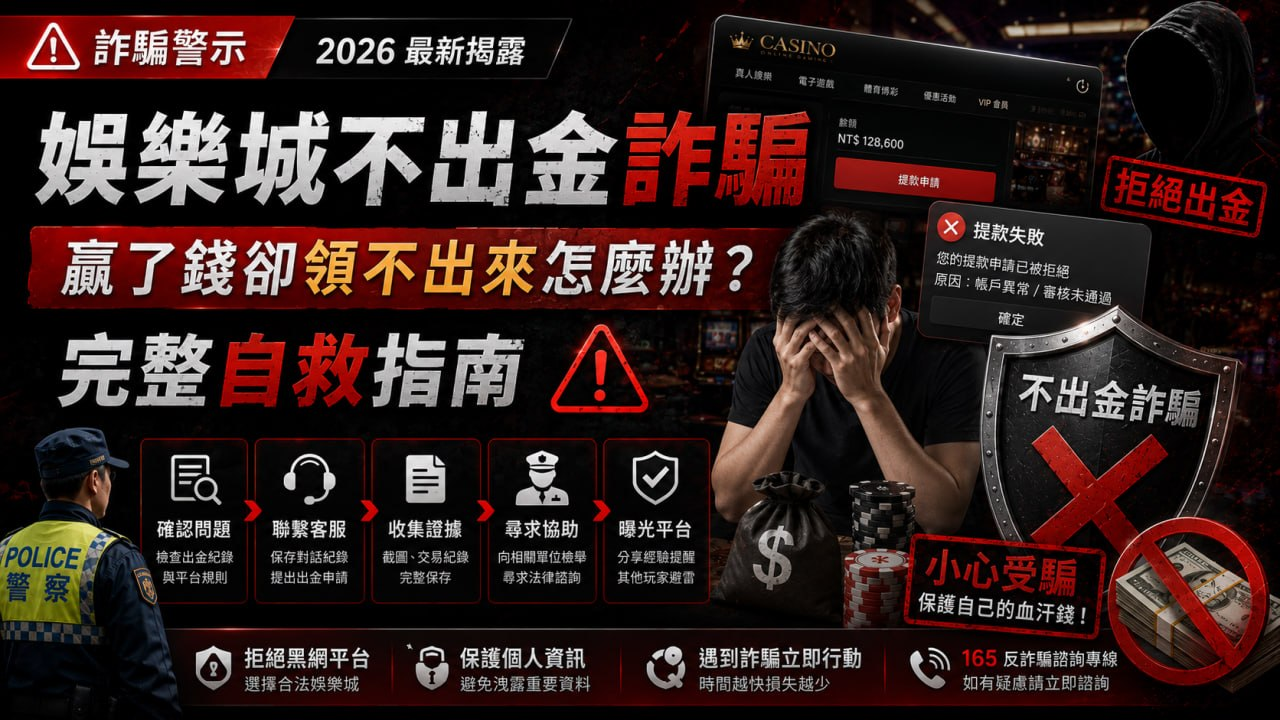
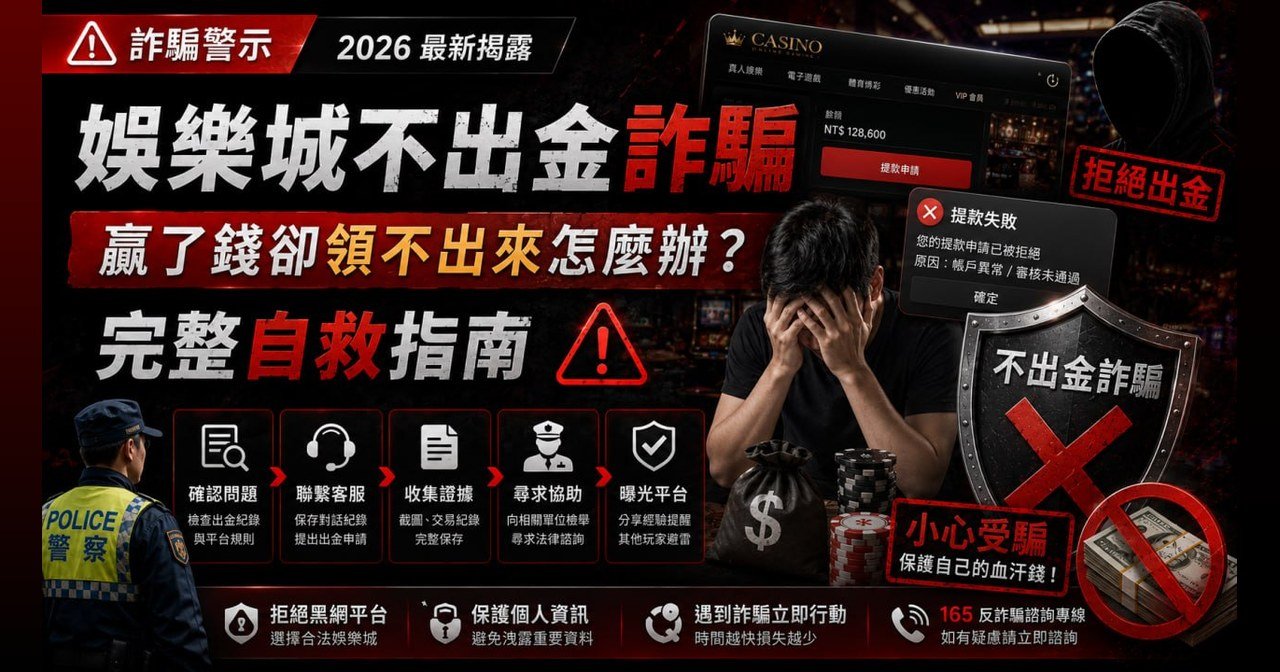
P34 R2 on top of R1 3c443a1: cover rebuilt as actual 1280x672 (proportional 94% scale 1195x672 + smooth per-side vertical gradient canvas pads 42/43px, no stretch, no key-text cut, same JPG path reused by index card); hero width/height 1280/672; FAQ restyled to GM1688 pattern (faq-section/faq-item d

diff --git a/articles/casino-no-withdrawal-scam.html b/articles/casino-no-withdrawal-scam.html
@@ -26,13 +26,10 @@
     <!-- 本篇局部版型：900px 內容軸線、可收合 FAQ、核對表格（含手機卡片版）、來源區塊 -->
     <style>
         article.content .container { max-width: 900px; }
-        .nw-faq { background: #f8f9fa; border: 1px solid #e9ecef; border-radius: 12px; margin-bottom: 12px; overflow: hidden; }
-        .nw-faq summary { color: #1a1a2e; font-size: 18px; font-weight: 600; padding: 20px 25px; cursor: pointer; list-style: none; display: flex; align-items: center; gap: 12px; }
-        .nw-faq summary::-webkit-details-marker { display: none; }
-        .nw-faq summary::after { content: '▼'; margin-left: auto; color: #6c757d; font-size: 14px; transition: transform 0.2s; flex-shrink: 0; }
-        .nw-faq[open] summary::after { transform: rotate(180deg); }
-        .nw-faq summary:focus-visible { outline: 2px solid #ff6b35; outline-offset: -2px; border-radius: 12px; }
-        .nw-faq .faq-a { padding: 0 25px 20px; line-height: 1.8; color: #333; }
+        .faq-section details.faq-item summary::before { content: '▶'; color: #ff6b35; font-size: 14px; margin-right: 10px; transition: transform 0.2s; flex-shrink: 0; }
+        .faq-section details.faq-item[open] summary::before { transform: rotate(90deg); }
+        .faq-section details.faq-item summary::-webkit-details-marker { display: none; }
+        .faq-section details.faq-item summary:focus-visible { outline: 2px solid #ff6b35; outline-offset: -2px; border-radius: 12px; }
         .nw-table-wrap { overflow-x: auto; margin: 20px 0; }
         table.nw-table { width: 100%; border-collapse: collapse; font-size: 15px; }
         table.nw-table th { background: #16213e; color: #fff; padding: 12px 14px; text-align: left; font-weight: 600; }
@@ -83,7 +80,7 @@
         }
       },
       "datePublished": "2026-04-01",
-      "dateModified": "2026-10-08T13:45:00+08:00",
+      "dateModified": "2026-10-08T14:35:00+08:00",
       "image": "https://fun1399.com/static/images/articles/articles/casino-no-withdrawal-scam-cover.jpg",
       "url": "https://fun1399.com/articles/casino-no-withdrawal-scam",
       "mainEntityOfPage": {
@@ -199,7 +196,7 @@
             <div class="article-hero-image">
                 <img src="/static/images/articles/articles/casino-no-withdrawal-scam-cover.jpg"
                      alt="娛樂城不出金詐騙：贏了錢卻領不出來怎麼辦？完整自救指南"
-                     loading="eager" width="1280" height="720" style="width: 100%; height: auto; display: block;">
+                     loading="eager" width="1280" height="672" style="width: 100%; height: auto; display: block;">
             </div>
 
             <div class="article-meta">
@@ -322,26 +319,38 @@
             <p>提款卡住時，先把「對方怎麼說」與「你手上有什麼紀錄」分開。規則問題要核對，要求追加付款的情況要停下來查證；已經付款且疑似遭詐，儘速聯繫付款機構與警方。不要為了拿回帳面餘額，再付一筆新的錢。</p>
 
             <h2 id="faq">常見問題 FAQ</h2>
-            <details class="nw-faq">
-                <summary>所有不出金都是詐騙嗎？</summary>
-                <div class="faq-a"><p>不一定。提款延遲可能涉及規則、資料或付款狀態，仍須核對具體原因；若對方要求另外支付解凍金、保證金或再儲值才能提款，先停止付款，保留紀錄並向165查證。</p></div>
+            <div class="faq-section" style="margin: 20px 0;">
+            <details class="faq-item" style="background: #f8f9fa; border: 1px solid #e9ecef; border-radius: 12px; margin-bottom: 12px; overflow: hidden;">
+                <summary style="color: #1a1a2e; font-size: 18px; font-weight: 600; padding: 20px 25px; cursor: pointer; list-style: none; display: flex; align-items: center;">所有不出金都是詐騙嗎？</summary>
+                <div class="faq-answer" style="padding: 0 25px 20px 50px; color: #333; line-height: 1.75;">
+                    <p>不一定。提款延遲可能涉及規則、資料或付款狀態，仍須核對具體原因；若對方要求另外支付解凍金、保證金或再儲值才能提款，先停止付款，保留紀錄並向165查證。</p>
+                </div>
             </details>
-            <details class="nw-faq">
-                <summary>被不出金詐騙，報警有用嗎？</summary>
-                <div class="faq-a"><p>有，疑似遭詐時應儘速報案並聯繫付款機構。報案可以讓警方受理與調查，是否能攔阻或追回款項，要看資金流向與案件情況，不能保證凍結帳戶或拿回全部款項。</p></div>
+            <details class="faq-item" style="background: #f8f9fa; border: 1px solid #e9ecef; border-radius: 12px; margin-bottom: 12px; overflow: hidden;">
+                <summary style="color: #1a1a2e; font-size: 18px; font-weight: 600; padding: 20px 25px; cursor: pointer; list-style: none; display: flex; align-items: center;">被不出金詐騙，報警有用嗎？</summary>
+                <div class="faq-answer" style="padding: 0 25px 20px 50px; color: #333; line-height: 1.75;">
+                    <p>有，疑似遭詐時應儘速報案並聯繫付款機構。報案可以讓警方受理與調查，是否能攔阻或追回款項，要看資金流向與案件情況，不能保證凍結帳戶或拿回全部款項。</p>
+                </div>
             </details>
-            <details class="nw-faq">
-                <summary>如何分辨提款規則問題與詐騙警訊？</summary>
-                <div class="faq-a"><p>先核對提款申請、原活動條款、驗證規則與收款紀錄。事後反覆更改條件、要求另外匯款或索取網銀密碼及驗證碼，都是應停止操作並查證的警訊；網站外觀、客服態度或曾成功小額提款，都不能單獨證明安全。</p></div>
+            <details class="faq-item" style="background: #f8f9fa; border: 1px solid #e9ecef; border-radius: 12px; margin-bottom: 12px; overflow: hidden;">
+                <summary style="color: #1a1a2e; font-size: 18px; font-weight: 600; padding: 20px 25px; cursor: pointer; list-style: none; display: flex; align-items: center;">如何分辨提款規則問題與詐騙警訊？</summary>
+                <div class="faq-answer" style="padding: 0 25px 20px 50px; color: #333; line-height: 1.75;">
+                    <p>先核對提款申請、原活動條款、驗證規則與收款紀錄。事後反覆更改條件、要求另外匯款或索取網銀密碼及驗證碼，都是應停止操作並查證的警訊；網站外觀、客服態度或曾成功小額提款，都不能單獨證明安全。</p>
+                </div>
             </details>
-            <details class="nw-faq">
-                <summary>我已經匯款了，現在該怎麼辦？</summary>
-                <div class="faq-a"><p>立即停止追加付款，保存客服對話、平台網址、提款申請與付款紀錄，儘速聯繫使用的銀行或支付業者，並向165或警方求助。若使用USDT，另保存網路、錢包地址、交易雜湊與交易所紀錄，不要把助記詞或私鑰交給任何人。</p></div>
+            <details class="faq-item" style="background: #f8f9fa; border: 1px solid #e9ecef; border-radius: 12px; margin-bottom: 12px; overflow: hidden;">
+                <summary style="color: #1a1a2e; font-size: 18px; font-weight: 600; padding: 20px 25px; cursor: pointer; list-style: none; display: flex; align-items: center;">我已經匯款了，現在該怎麼辦？</summary>
+                <div class="faq-answer" style="padding: 0 25px 20px 50px; color: #333; line-height: 1.75;">
+                    <p>立即停止追加付款，保存客服對話、平台網址、提款申請與付款紀錄，儘速聯繫使用的銀行或支付業者，並向165或警方求助。若使用USDT，另保存網路、錢包地址、交易雜湊與交易所紀錄，不要把助記詞或私鑰交給任何人。</p>
+                </div>
             </details>
-            <details class="nw-faq">
-                <summary>小額出金正常，大額就不出金，這是詐騙嗎？</summary>
-                <div class="faq-a"><p>不能只憑金額差異認定，但小額成功不代表後續提款有保障。核對大額申請的規則、狀態與客服說明；若被要求追加付款或條件反覆改變，先停止付款並向165或警方查證。</p></div>
+            <details class="faq-item" style="background: #f8f9fa; border: 1px solid #e9ecef; border-radius: 12px; margin-bottom: 12px; overflow: hidden;">
+                <summary style="color: #1a1a2e; font-size: 18px; font-weight: 600; padding: 20px 25px; cursor: pointer; list-style: none; display: flex; align-items: center;">小額出金正常，大額就不出金，這是詐騙嗎？</summary>
+                <div class="faq-answer" style="padding: 0 25px 20px 50px; color: #333; line-height: 1.75;">
+                    <p>不能只憑金額差異認定，但小額成功不代表後續提款有保障。核對大額申請的規則、狀態與客服說明；若被要求追加付款或條件反覆改變，先停止付款並向165或警方查證。</p>
+                </div>
             </details>
+            </div>
 
             <!-- 延伸閱讀 -->
             <div style="margin-top: 50px;">
